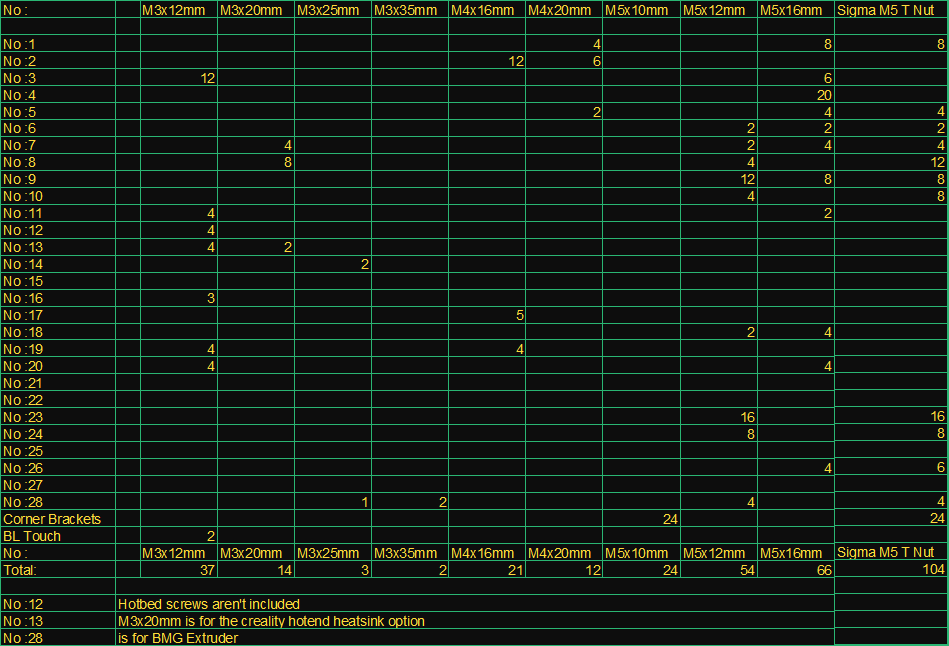
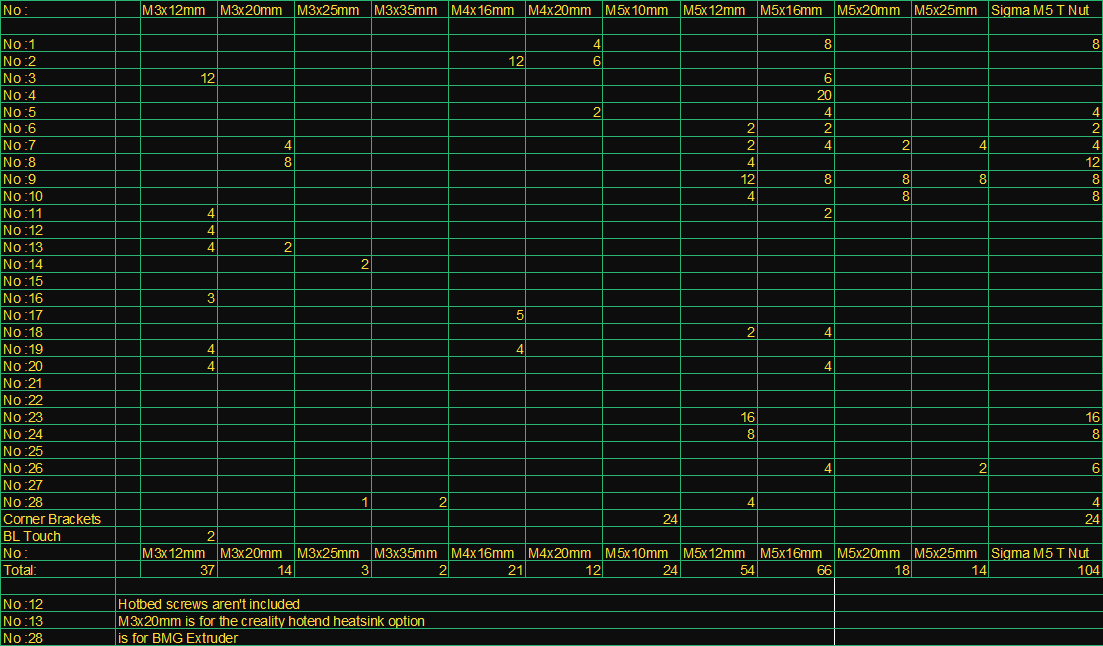
video added
screw counts updated
video added

diff --git a/alumi_3d.html b/alumi_3d.html
@@ -49,7 +49,11 @@ You will see the design is allowing for flexibility of choices.
 (ex: You may choose between nema 17 and 23 steppers. There are also options for standard round E3D heatsinks and creality style cuboid heatsinks.)
 <p>Note: Please keep in mind that the current hotend carriage design is focused on ABS printing.</p>
 </p>
-
+<p>Here is the overview video of the design files:</p>
+<div><iframe class="dxfembed" width="420" height="315"
+src="https://www.youtube.com/embed/OqARRRGmjjM">
+</iframe>
+</div>
 <p>To be able to make one for yourself; you will need:
 <ul>A plasma cutting service,</ul>
 <ul>Aluminum sheets and plates that are varying in thickness,</ul>

diff --git a/style.css b/style.css
@@ -202,3 +202,7 @@ h3 {
 .qr {
 	width: 300px;
 }
+.dxfembed {
+	display: block;
+	margin: auto;
+}
